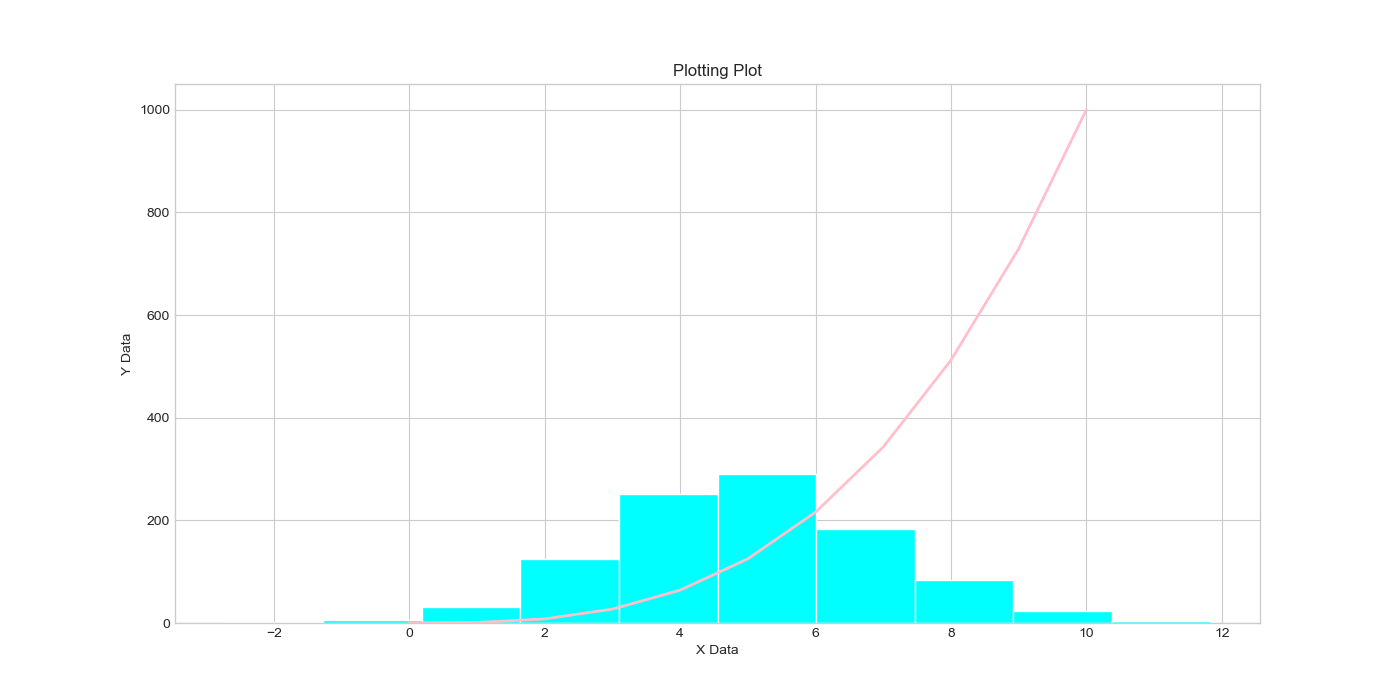
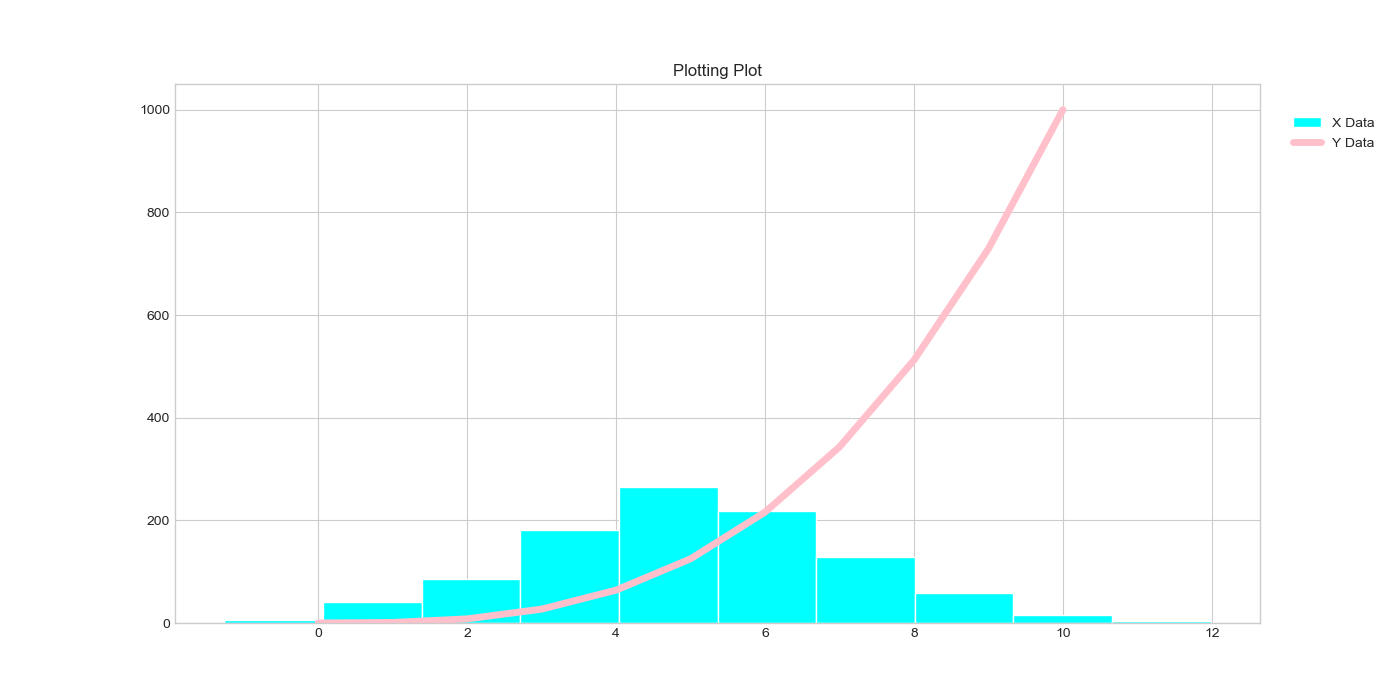
Forgotten edits

diff --git a/plotting.py b/plotting.py
@@ -17,14 +17,14 @@ ypoints = pow(xpoints, 3,)
 
 #CUSTOMISING PLOT CODE BELOW]
 #REF https://medium.com/@arseniytyurin/how-to-make-your-histogram-shine-69e432be39ca
+
 plt.figure(figsize=(14,7)) # size of fig 14x7
 plt.style.use('seaborn-whitegrid') #grid style
 plt.title("Plotting Plot")
-plt.xlabel("X Data")
-plt.ylabel("Y Data")
-plt.hist(x, facecolor="cyan", edgecolor="white") # draw solid white grid lines
-plt.plot(xpoints, ypoints, linewidth=5.0, color="pink") #https://www.statology.org/matplotlib-line-thickness/
 
+plt.hist(x, facecolor="cyan", edgecolor="white", label="X Data") # draw solid white grid lines
+plt.plot(xpoints, ypoints, linewidth=5.0, color="pink", label="Y Data") #https://www.statology.org/matplotlib-line-thickness/
+plt.legend(bbox_to_anchor=(1, 1), loc=2, borderaxespad=2.)
 #REF: https://jakevdp.github.io/PythonDataScienceHandbook/04.11-settings-and-stylesheets.html
 
 
@@ -32,6 +32,8 @@ plt.plot(xpoints, ypoints, linewidth=5.0, color="pink") #https://www.statology.o
 # saves the plot into an image file as seen in plotted.png 
 #plt.savefig("plotted.png")
 # REF https://towardsdatascience.com/save-plots-matplotlib-1a16b3432d8a
+
+#shows plot
 plt.show()
 
 
